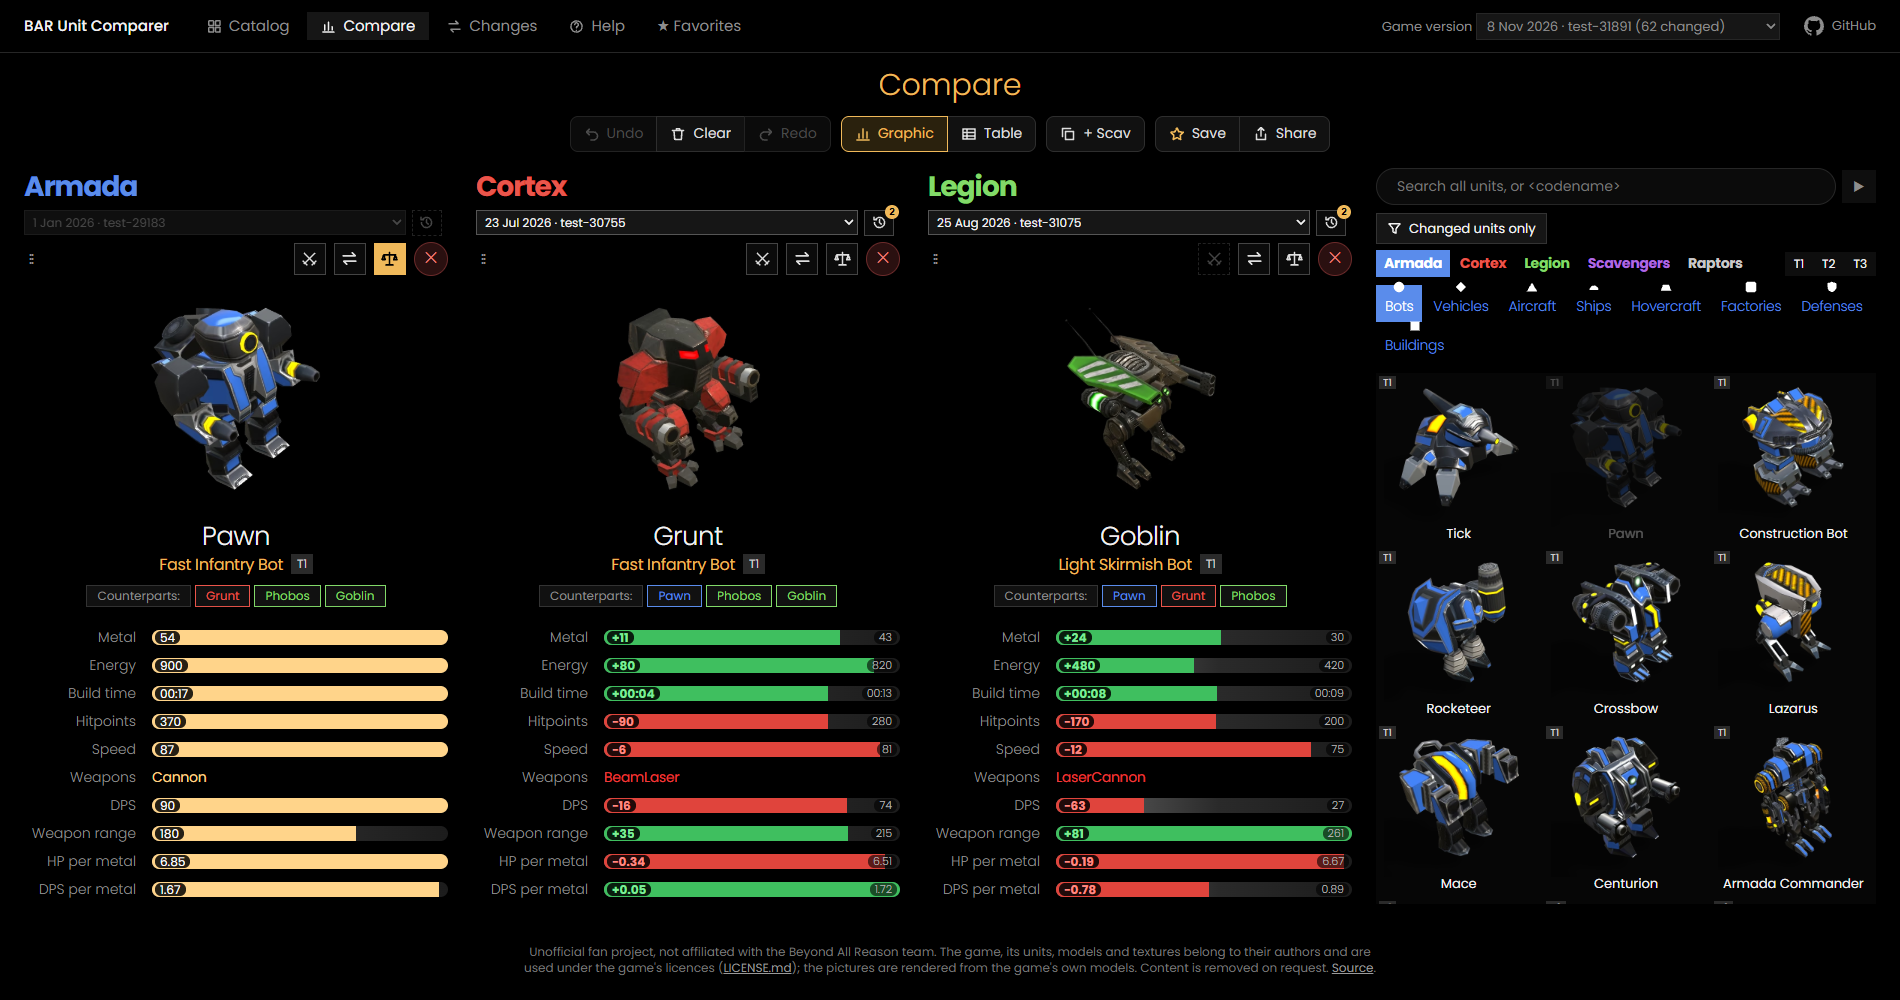
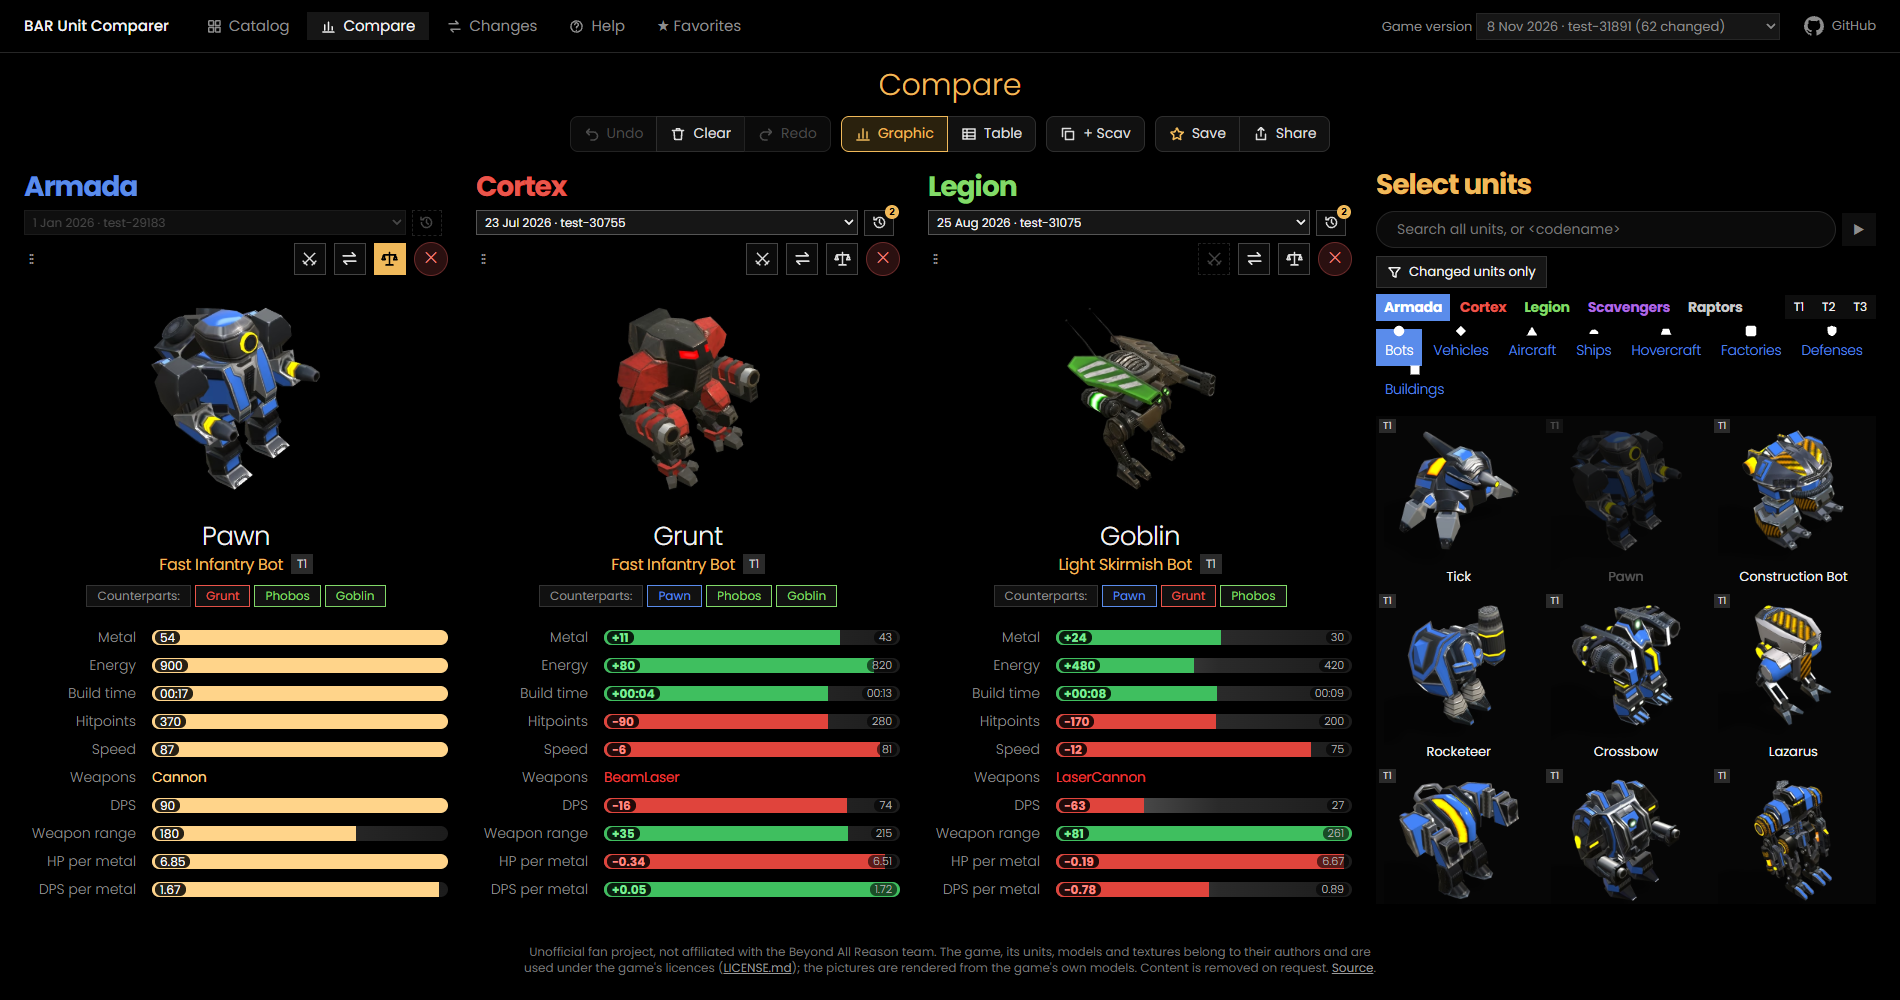
Heading "Select units" above the unit selection of the compare
Claude-Session: https://claude.ai/code/session_01QeCYKoSgqsAqdpEWxxymXc

Changed region(s): [[0.7142, 0.155, 0.9937, 0.899]]

diff --git a/website/app.js b/website/app.js
@@ -863,6 +863,7 @@ function chooserHtml() {
   const p = state.pick, narrow = isNarrow();
   if (!state.pickOpen && !narrow) return `<div class="chooser collapsed"><button class="toggle-pick" data-a="pick-toggle" title="Show the unit selection">&#9664;</button></div>`;
   return `<div class="chooser f-${p.faction}${narrow ? ` sheet${state.sheet ? ' open' : ''}` : ''}">
+    <h2 class="c-pick-title">Select units</h2>
     <div class="c-searchrow"><div class="c-search"><input class="search ${isCodeSearch(p.search) ? 'code' : ''}" data-input="pick-search" placeholder="Search all units, or &lt;codename&gt;" value="${esc(p.search)}"><button class="clear" data-a="pick-clear" title="Clear the search">&#10005;</button></div><button class="toggle-pick" data-a="pick-toggle" title="${narrow ? 'Close the unit selection' : 'Hide the unit selection (to the right)'}">${narrow ? 'Done' : '&#9654;'}</button></div>
     ${state.versions.length > 1 ? `<div class="c-filter">${versionsFilterButton()}</div>` : ''}
     ${filterHtml({ small: true, faction: p.search ? '' : p.faction, category: p.search ? '' : p.category, tiers: p.tiers, factions: FACTIONS, cats: CATEGORIES.filter(k => k.id === p.category || hasUnits(p.faction, k.id)), act: 'pick', tier: 'pick-tier' })}

diff --git a/website/style.css b/website/style.css
@@ -618,3 +618,6 @@ select.c-ver:disabled { color: #666; }
 /* Undo / Redo: a badge with the number of steps (no step: no badge) */
 .tb-group .btn.n-steps { position: relative; overflow: visible; }
 .tb-group .btn.n-steps::after { content: attr(data-n); position: absolute; top: -7px; right: -6px; z-index: 2; min-width: 16px; height: 16px; padding: 0 4px; box-sizing: border-box; border-radius: 8px; background: var(--gold); color: #000; font-size: 10px; font-weight: 700; line-height: 16px; text-align: center; pointer-events: none; }
+/* the heading of the unit selection of the compare: bold like the names of the factions above the columns, in gold */
+.c-pick-title { margin: 0 0 10px; color: var(--gold); font-size: 28px; font-weight: 700; letter-spacing: -1px; line-height: 1.2; }
+@media (max-width: 900px) { .c-pick-title { font-size: 20px; letter-spacing: -.5px; margin-bottom: 6px; } }

diff --git a/docs/website.md b/docs/website.md
@@ -110,7 +110,7 @@ As on the pictures: Armada blue (90, 140, 235), Cortex red (235, 85, 75), Legion
 - **Share:** copies the link and says so; on a touch device it opens the share menu (`navigator.share`).
 - **Sorting:** a click on the name of a value orders the columns by it, the best first, again: the other way round (`state.sort`, an Undo step).
 
-**The unit selection:** the search, **Changed units only** (only with more than one game version), the choice of units (section 3, with tech levels), the units as pictures; a click adds a column, units already shown are dimmed.
+**The unit selection:** the heading **Select units** (gold, bold like the faction names of the columns), the search, **Changed units only** (only with more than one game version), the choice of units (section 3, with tech levels), the units as pictures; a click adds a column, units already shown are dimmed.
 
 **Search** (everywhere): a text finds the start of a word in the name or description (`pawn`: Pawn, Pawn Launcher); `<armpw` finds a part of the code name (the field turns green).
 
